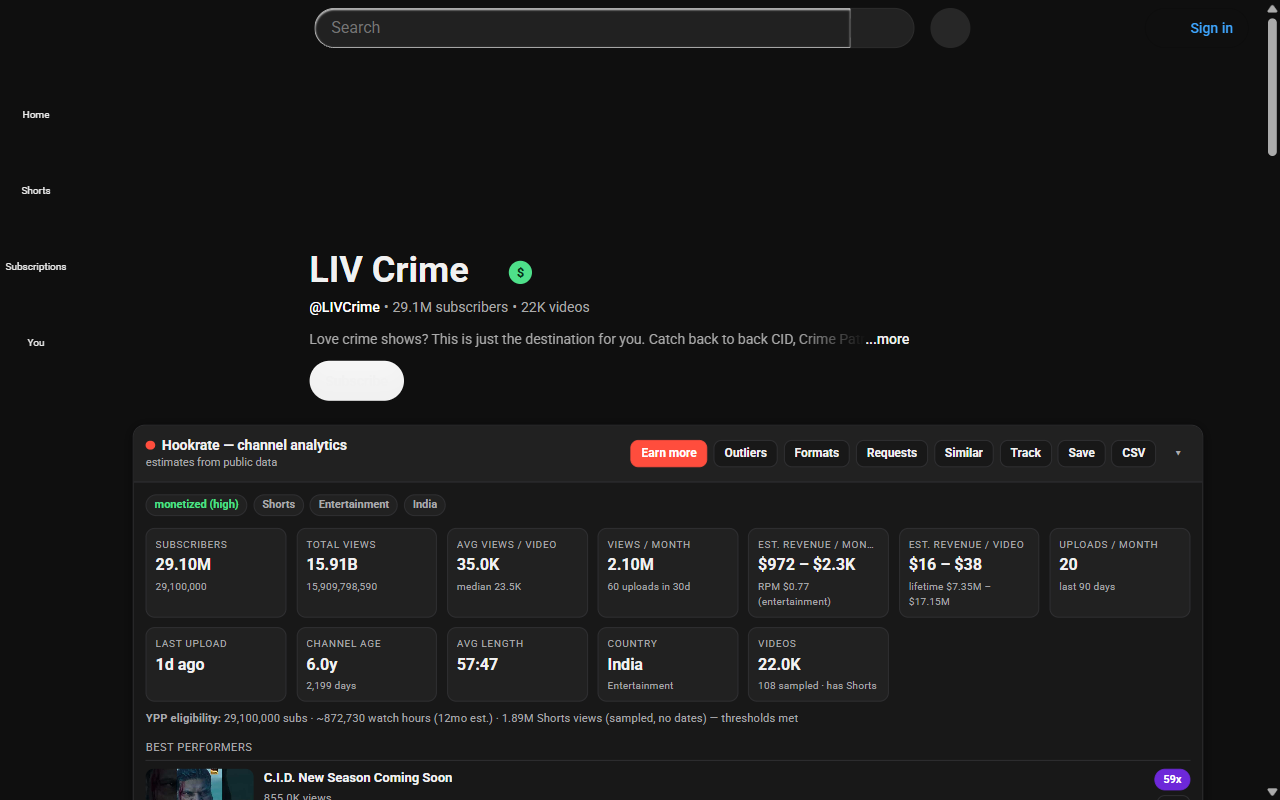
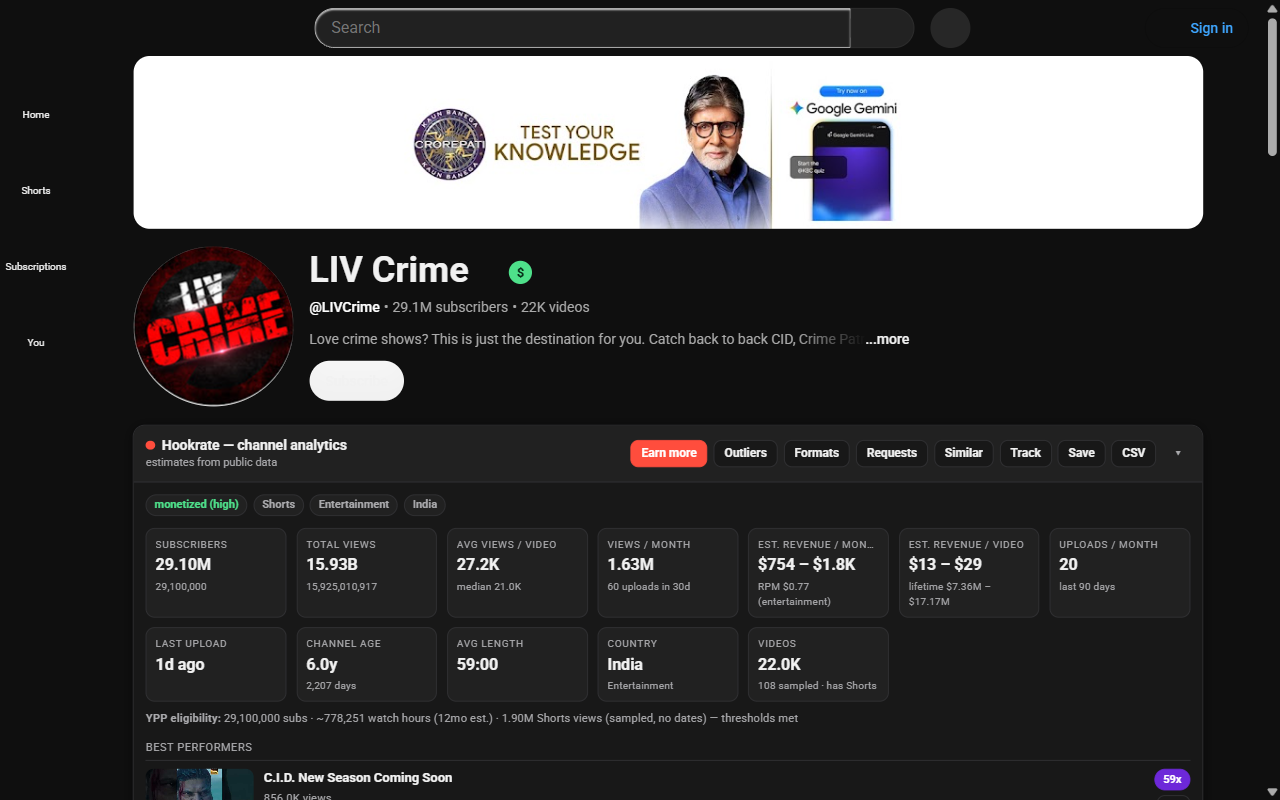
feat(hookrate): collapse the channel panel by default
The panel sits between the channel header and the video grid, so leaving
it open pushed YouTube's own content down the page on every visit. It now
starts collapsed and remembers the choice: expand it once and it stays
expanded, because re-collapsing on every channel would be worse than the
original problem.

The title area toggles as well as the caret, and the subtitle switches
between "click to expand" and the usual line rather than leaving a stale
hint on an already-open panel.

Saving that preference goes through a new quiet option on saveSettings.
The normal path dispatches a change event that the router treats as a
remount, so without it a collapse toggle would tear down and refetch the
panel it had just collapsed.

tool/shots.mjs joins the repo so screenshots are reproducible: it expands
the panel before photographing it, which the listing needs and the new
default would otherwise have broken. Both harnesses now use a fixed
profile directory, since Chrome on Windows holds a lock on
first_party_sets.db when puppeteer deletes its temp profile and the
resulting EBUSY masked the real result, and a raised CDP timeout, because
screenshotting a busy page outran the default 30s.

One smoke assertion was wrong rather than the code: the extension pages
were checked after a fixed sleep, which failed while the worker was still
busy from earlier steps. It now waits for content. Verified independently
that all three pages render.

diff --git a/chrome-extension/hookrate/src/content/lib/ui.js b/chrome-extension/hookrate/src/content/lib/ui.js
@@ -30,7 +30,15 @@
      * A titled card. Returns { root, body, setBody, setStatus, remove }.
      * Cards are idempotent by `id`: injecting twice replaces, never stacks.
      */
-    panel({ id, title, subtitle, actions = [], collapsible = true, collapsed = false }) {
+    panel({
+      id,
+      title,
+      subtitle,
+      actions = [],
+      collapsible = true,
+      collapsed = false,
+      onToggle = null,
+    }) {
       document.getElementById(id)?.remove();
 
       const body = el('div.hr-panel-body');
@@ -58,15 +66,36 @@
       if (collapsed) root.classList.add('hr-collapsed');
 
       if (collapsible) {
-        caret.addEventListener('click', () => {
+        const toggle = () => {
           const now = root.classList.toggle('hr-collapsed');
           caret.setAttribute('aria-expanded', String(!now));
-        });
+          caret.title = now ? 'Expand' : 'Collapse';
+          // Let the caller remember the choice, so a panel that starts
+          // collapsed does not re-collapse on every visit once opened.
+          if (onToggle) onToggle(now);
+        };
+
+        caret.addEventListener('click', toggle);
+        caret.title = collapsed ? 'Expand' : 'Collapse';
+
+        // The title area toggles as well. The buttons live in their own
+        // container beside it, so this cannot swallow an action click.
+        const titles = head.querySelector('.hr-panel-titles');
+        if (titles) {
+          titles.style.cursor = 'pointer';
+          titles.addEventListener('click', toggle);
+        }
       }
+
+      const subtitleNode = head.querySelector('.hr-panel-sub');
 
       return {
         root,
         body,
+        /** Swap the subtitle — used to keep a collapse hint from going stale. */
+        setSubtitle(text) {
+          if (subtitleNode) subtitleNode.textContent = text;
+        },
         setBody(...nodes) {
           body.replaceChildren(...nodes.flat().filter(Boolean));
         },

diff --git a/chrome-extension/hookrate/src/content/features/channel.js b/chrome-extension/hookrate/src/content/features/channel.js
@@ -957,10 +957,26 @@
 
     if (document.getElementById(PANEL_ID)?.dataset.ref === ref) return;
 
+    // Collapsed by default. The panel sits between the channel header and the
+    // video grid, so leaving it open pushes YouTube's own content down the page
+    // on every visit. Opening it is one click, and the choice is remembered.
+    const settings = await HR.settings();
+    const startCollapsed = settings.ui?.channelPanelOpen !== true;
+
+    const subtitleFor = (isCollapsed) =>
+      isCollapsed ? 'click to expand' : 'estimates from public data';
+
     const panel = HR.ui.panel({
       id: PANEL_ID,
       title: 'Hookrate — channel analytics',
-      subtitle: 'estimates from public data',
+      subtitle: subtitleFor(startCollapsed),
+      collapsed: startCollapsed,
+      onToggle: (isCollapsed) => {
+        // Keep the hint honest rather than leaving "click to expand" on an
+        // already-expanded panel.
+        panel.setSubtitle(subtitleFor(isCollapsed));
+        HR.saveSettings({ ui: { channelPanelOpen: !isCollapsed } }, { quiet: true });
+      },
     });
     panel.root.dataset.ref = ref;
     panel.loading('Reading channel…');

diff --git a/chrome-extension/hookrate/src/content/lib/bus.js b/chrome-extension/hookrate/src/content/lib/bus.js
@@ -53,11 +53,20 @@
     return settingsCache;
   };
 
-  HR.saveSettings = async function saveSettings(patch) {
+  /**
+   * @param {object} patch
+   * @param {object} [opts]
+   * @param {boolean} [opts.quiet] Skip the change event, and so the remount it
+   *   triggers. For preferences the UI has already applied itself — a collapse
+   *   toggle should not tear down and refetch the panel it just collapsed.
+   */
+  HR.saveSettings = async function saveSettings(patch, { quiet = false } = {}) {
     settingsCache = null;
     const next = await HR.send('settings.set', { patch });
     settingsCache = Promise.resolve(next);
-    document.dispatchEvent(new CustomEvent('hookrate:settings', { detail: next }));
+    if (!quiet) {
+      document.dispatchEvent(new CustomEvent('hookrate:settings', { detail: next }));
+    }
     return next;
   };
 

diff --git a/chrome-extension/hookrate/src/background/store/settings.js b/chrome-extension/hookrate/src/background/store/settings.js
@@ -52,6 +52,9 @@ export const DEFAULTS = {
   ui: {
     compact: false,
     accent: '#ff4d3d',
+    // The channel panel starts collapsed so it does not push YouTube's own
+    // content down on every visit. Set once the user expands it.
+    channelPanelOpen: false,
   },
   privacy: {
     // Server-side lookups hit youtube.com from the extension with no cookies.
